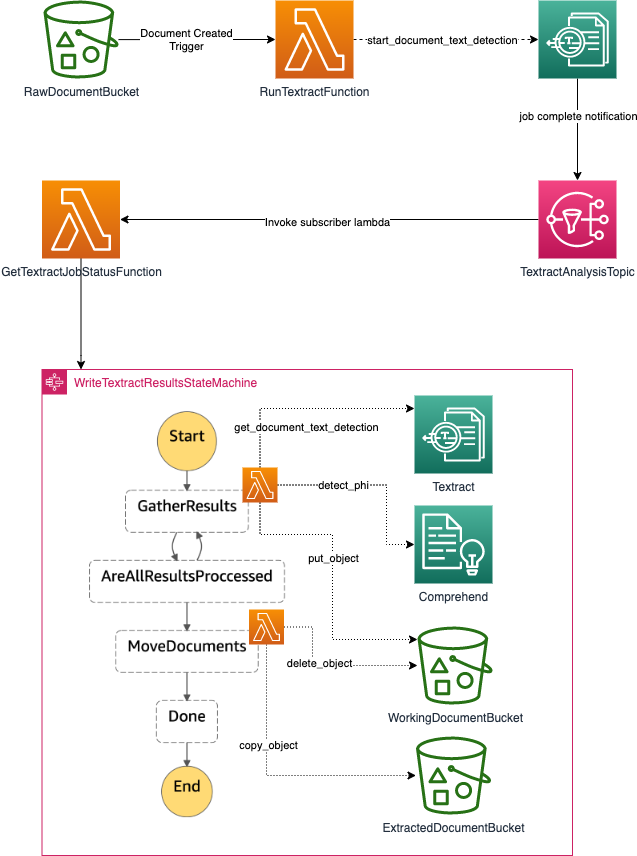
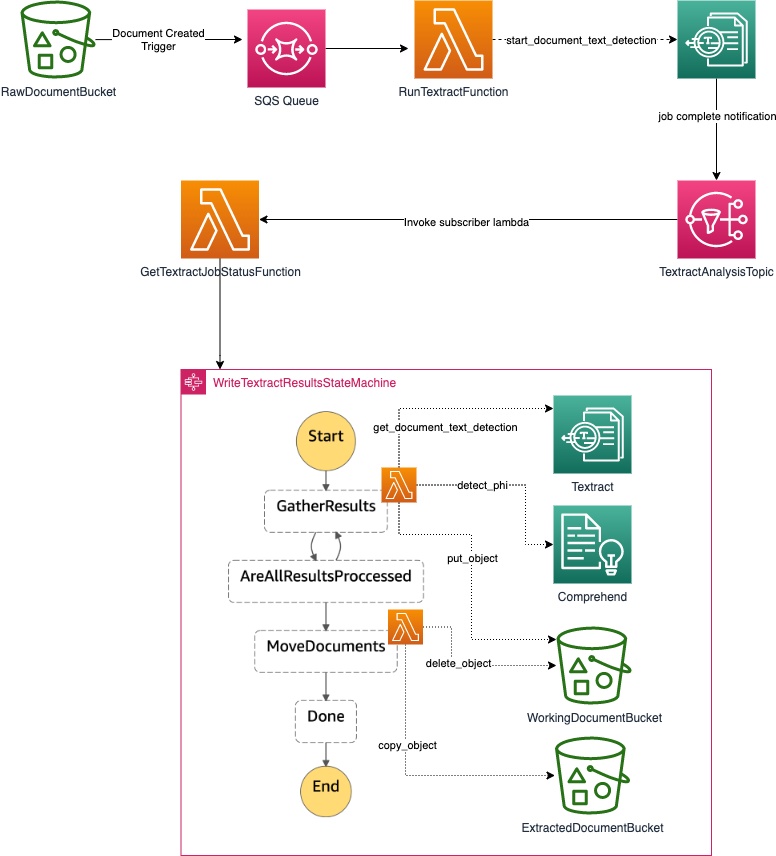
add a sqs queue instead of event right from the bucket

diff --git a/source/run-textract/run_textract.py b/source/run-textract/run_textract.py
@@ -22,52 +22,57 @@ import traceback
 import sys
 import boto3
 
+
 def lambda_handler(event, context):
     try:
         logging.debug(event)
-        responses=[]
-        for records in event['Records']:
-            bucket_name = records['s3']['bucket']['name']
-            file_key = records['s3']['object']['key']
-            bucket_region = records['awsRegion']
-        
-            session = boto3.session.Session(region_name=bucket_region)
-            textract = session.client('textract')
-            logging.info('Running Textract on %s/%s and posting to topic %s with role %s' % (bucket_name,file_key,os.environ.get('TOPIC_ARN'),os.environ.get('ROLE_ARN')))
-            response = textract.start_document_text_detection(
-                DocumentLocation={
-                    'S3Object': {
-                        'Bucket': bucket_name,
-                        'Name': file_key
+        responses = []
+        for sqs_records in event['Records']:
+            sqs_body = json.loads(sqs_records['body'])
+            for s3_records in sqs_body['Records']:
+                bucket_name = s3_records['s3']['bucket']['name']
+                file_key = s3_records['s3']['object']['key']
+                file_name = file_key.split("/")[1]
+                bucket_region = s3_records['awsRegion']
+
+                session = boto3.session.Session(region_name=bucket_region)
+                textract = session.client('textract')
+                logging.info(f"Running Textract on {bucket_name}/{file_key} and posting to topic {os.environ.get('TOPIC_ARN')} with role {os.environ.get('ROLE_ARN')}")
+                response = textract.start_document_text_detection(
+                    DocumentLocation={
+                        'S3Object': {
+                            'Bucket': bucket_name,
+                            'Name': file_key
+                        }
+                    },
+                    JobTag=file_name,
+                    NotificationChannel={
+                        'SNSTopicArn': os.environ.get('TOPIC_ARN'),
+                        'RoleArn': os.environ.get('ROLE_ARN')
                     }
-                },
-                JobTag=file_key,
-                NotificationChannel={
-                    'SNSTopicArn': os.environ.get('TOPIC_ARN'),
-                    'RoleArn': os.environ.get('ROLE_ARN')
-                }
-            )
-            responses.append(response)
+                )
+                responses.append(response)
         return json.dumps(responses)
     except Exception as error:
         logging.error('lambda_handler error: %s' % (error))
         logging.error('lambda_handler trace: %s' % traceback.format_exc())
         result = {
             'statusCode': '500',
-            'body':  {'message': 'error'}
+            'body': {'message': 'error'}
         }
         return json.dumps(result)
-    
+
 
 def init_logger():
     global log_level
     log_level = str(os.environ.get('LOG_LEVEL')).upper()
     if log_level not in [
-                            'DEBUG', 'INFO',
-                            'WARNING', 'ERROR',
-                            'CRITICAL'
-                        ]:
+        'DEBUG', 'INFO',
+        'WARNING', 'ERROR',
+        'CRITICAL'
+    ]:
         log_level = 'ERROR'
     logging.getLogger().setLevel(log_level)
+
 
 init_logger()

diff --git a/source/run-textract/get_textract_results.py b/source/run-textract/get_textract_results.py
@@ -102,11 +102,29 @@ def get_block_value(block: dict) -> str:
 def scrub_data(unit, comprehend_medical):
     response = comprehend_medical.detect_phi(Text=unit)
     if len(response["Entities"]) > 0:
+        phi_values_to_replace = {}
         for entity in response["Entities"]:
-            unit = unit.replace(entity["Text"], "<%s>" % entity["Type"])
+            if entity["Type"] in phi_values_to_replace:
+                phi_values_to_replace[entity["Type"]].append(entity["Text"])
+            else:
+                phi_values_to_replace[entity["Type"]] = [entity["Text"]]
+
+        unit = replace_phi_values(unit, phi_values_to_replace)
     else:
         logging.debug("No PII data found in '%s'" % unit)
     return unit
+
+
+def replace_phi_values(in_string: str, phi_values_to_replace: dict) -> str:
+    for key, value in phi_values_to_replace.items():
+        in_string = replace_phi_values_of_type(in_string, key, value)
+    return in_string
+
+
+def replace_phi_values_of_type(in_string: str, type: str, values) -> str:
+    for value in sorted(values, key=len, reverse=True):
+        in_string = in_string.replace(value, "<%s>" % type)
+    return in_string
 
 
 def group_blocks_into_units(processed_blocks, index):
@@ -117,7 +135,7 @@ def group_blocks_into_units(processed_blocks, index):
         for i in range(index, len(processed_blocks)):
             block = processed_blocks[i]
             unit_str = block if len(unit_str) == 0 else "%s\n%s" % (unit_str, block)
-            if len(unit_str) % 100 == 0 or len(unit_str) >= 10000:
+            if len(unit_str) >= 18000:
                 results.append(unit_str)
                 unit_str = ""
                 break

diff --git a/source/run-textract/move_documents.py b/source/run-textract/move_documents.py
@@ -29,9 +29,11 @@ def lambda_handler(event, context):
         job_id = event["job_id"]
         tmp_document = event["document"]
         file_name = event["file_name"]
+        file_path = file_name.split("/")
+
         destination_document = {
             "Bucket": str(os.environ.get('DESTINATION_BUCKET')),
-            "Key": f"{job_id}/extracted.txt"
+            "Key": f"{job_id}/{file_path[len(file_path)-1]}.txt"
         }
         response = s3.copy_object(Bucket=destination_document["Bucket"], Key=destination_document["Key"],
                                   CopySource=tmp_document, Metadata={
